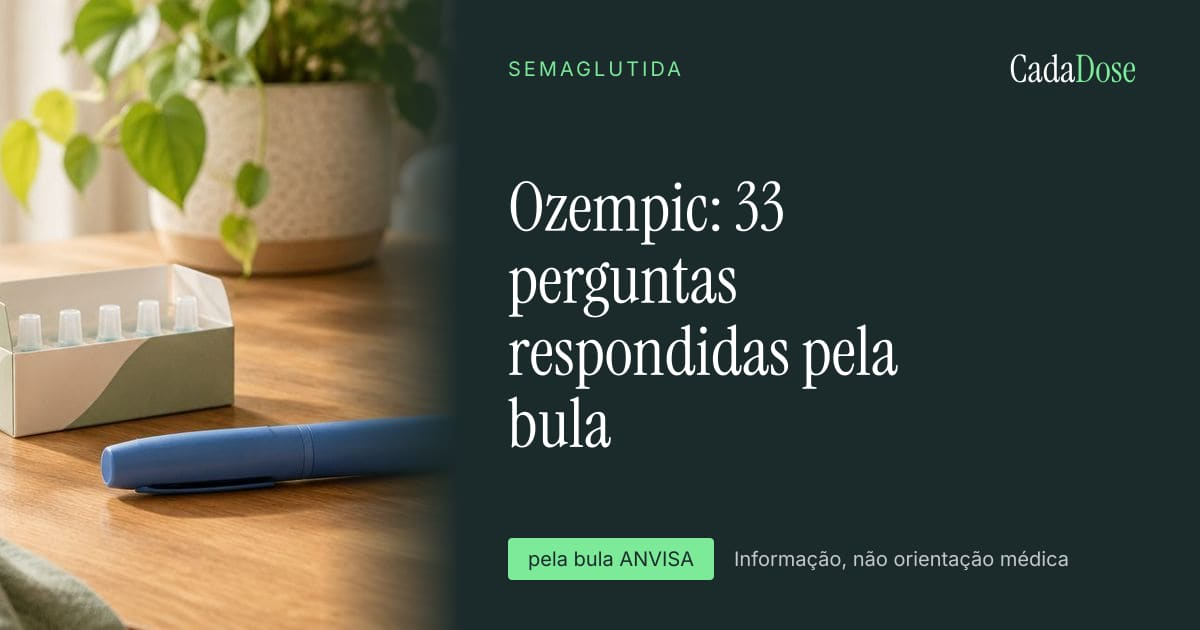
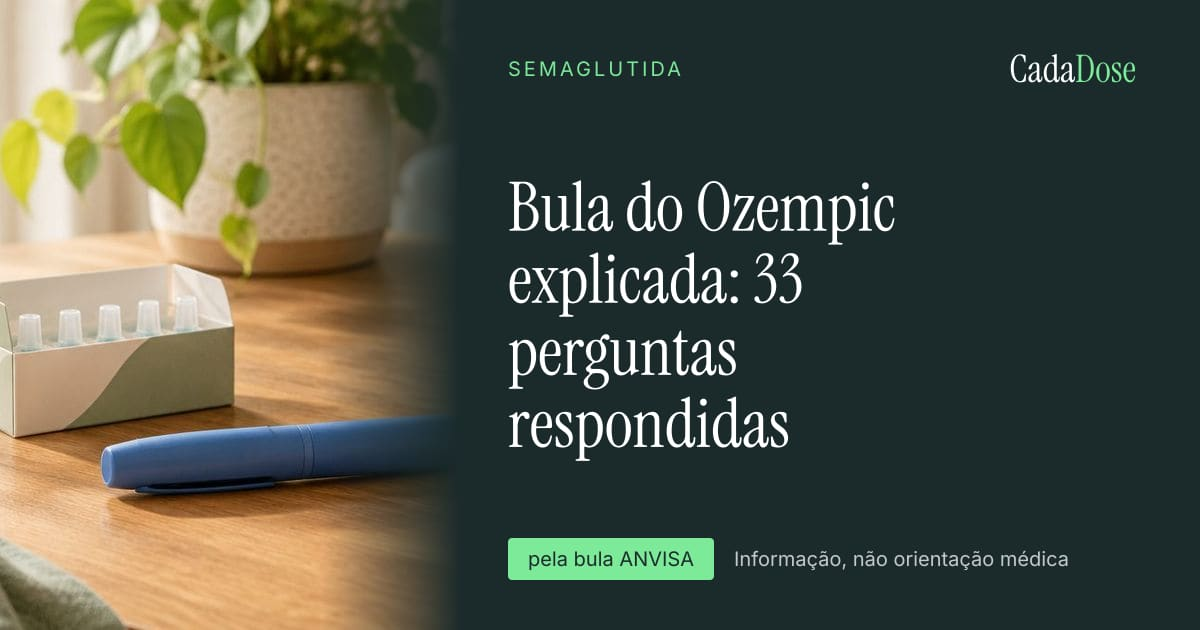
Medication hubs target 'bula do X' queries: title/H1 'Bula do X explicada', MedicalWebPage + MedicalEntity JSON-LD with bula citations

Changed region(s): [[0.4008, 0.2714, 0.7708, 0.7238]]

diff --git a/src/app/medicamentos/[slug]/page.tsx b/src/app/medicamentos/[slug]/page.tsx
@@ -21,13 +21,13 @@ export async function generateMetadata({ params }: { params: Promise<{ slug: str
   if (!med) return {};
   return {
     title: med.sources.length
-      ? `${med.name.split(" (")[0]}: bula, doses, validade e ${getArticlesForMedication(slug).length} perguntas respondidas`
+      ? `Bula do ${med.name.split(" (")[0]} explicada: doses, validade e ${getArticlesForMedication(slug).length} perguntas respondidas`
       : `${med.name.split(" (")[0]}: sem bula aprovada, o que a ANVISA diz`,
     description: med.sources.length
       ? `${med.name}: tabela de doses, validade depois de aberto, dose esquecida e efeitos colaterais, citados da bula aprovada pela ANVISA.`
       : `${med.name}: sem bula aprovada. O que a ANVISA diz (Nota Técnica 200/2025, RDC 973/2025) e por que não equivale ao produto registrado.`,
     alternates: { canonical: `/medicamentos/${slug}` },
-    ...social(`med-${slug}`, med.sources.length ? `${med.name.split(" (")[0]}: bula, doses, validade e perguntas respondidas` : `${med.name.split(" (")[0]}: sem bula aprovada, o que a ANVISA diz`, med.sources.length ? `Tudo sobre ${med.name} pela bula aprovada pela ANVISA.` : `${med.name}: o que a ANVISA diz.`, { path: `/medicamentos/${slug}` }),
+    ...social(`med-${slug}`, med.sources.length ? `Bula do ${med.name.split(" (")[0]} explicada: doses, validade e perguntas respondidas` : `${med.name.split(" (")[0]}: sem bula aprovada, o que a ANVISA diz`, med.sources.length ? `Tudo sobre ${med.name} pela bula aprovada pela ANVISA.` : `${med.name}: o que a ANVISA diz.`, { path: `/medicamentos/${slug}` }),
   };
 }
 
@@ -46,18 +46,19 @@ export default async function MedicationHub({ params }: { params: Promise<{ slug
   if (med.maxTempC) facts.push(["Temperatura máxima", `${med.maxTempC} °C`]);
   if (med.missedDoseWindowHours) facts.push(["Janela da dose esquecida", `${med.missedDoseWindowHours} h`]);
 
+  const pageLd = med.sources.length ? { "@context": "https://schema.org", "@type": "MedicalWebPage", name: `Bula do ${short} explicada`, url: `${siteUrl}/medicamentos/${slug}`, inLanguage: "pt-BR", about: { "@type": "MedicalEntity", name: med.name }, citation: med.sources.map((s) => ({ "@type": "CreativeWork", name: s.label, url: s.url })), hasPart: articles.map((a) => ({ "@type": "WebPage", name: a.title, url: `${siteUrl}/medicamentos/${slug}/${a.intent}` })) } : null;
   const crumbsLd = { "@context": "https://schema.org", "@type": "BreadcrumbList", itemListElement: [{ "@type": "ListItem", position: 1, name: "Medicamentos", item: `${siteUrl}/medicamentos` }, { "@type": "ListItem", position: 2, name: short, item: `${siteUrl}/medicamentos/${slug}` }] };
   return (
     <>
-      <script type="application/ld+json" dangerouslySetInnerHTML={{ __html: JSON.stringify(crumbsLd) }} />
-      <PageHero eyebrow={`${med.activeIngredient} · ${med.frequency === "daily" ? "uso diário" : "aplicação semanal"}`} title={med.sources.length ? `${short}: ${articles.length} perguntas respondidas pela bula` : `${short}: sem bula aprovada, o que a ANVISA diz`} lede={t.content.disclaimerShort} image={medImage(slug)} crumbs={[{ label: "Medicamentos", href: "/medicamentos" }, { label: short }]} />
+      <script type="application/ld+json" dangerouslySetInnerHTML={{ __html: JSON.stringify(pageLd ? [crumbsLd, pageLd] : crumbsLd) }} />
+      <PageHero eyebrow={`${med.activeIngredient} · ${med.frequency === "daily" ? "uso diário" : "aplicação semanal"}`} title={med.sources.length ? `Bula do ${short} explicada: ${articles.length} perguntas respondidas` : `${short}: sem bula aprovada, o que a ANVISA diz`} lede={t.content.disclaimerShort} image={medImage(slug)} crumbs={[{ label: "Medicamentos", href: "/medicamentos" }, { label: short }]} />
 
       <div className="mx-auto max-w-7xl px-6 py-14 md:px-10 md:py-20">
         {facts.length > 0 && (
           <section className="grid gap-4 md:grid-cols-[1fr_2fr]">
             <div className="tile flex flex-col justify-between bg-forest text-white">
               <p className="eyebrow">O que a bula fixa</p>
-              <h2 className="mt-6 text-4xl">Números da bula, sem interpretação</h2>
+              <h2 className="mt-6 text-4xl">{med.sources.length ? `A bula do ${short} em números` : "Números da bula, sem interpretação"}</h2>
               <p className="mt-4 text-xs text-white/70">Fonte: {med.sources.map((s, i) => <span key={s.url}>{i > 0 ? " · " : ""}<a href={s.url} rel="noopener" className="underline">{s.label}</a></span>)}</p>
             </div>
             <div className="grid gap-4 sm:grid-cols-2">

diff --git a/scripts/og-list.ts b/scripts/og-list.ts
@@ -13,7 +13,7 @@ const list = [
   { key: "calendario", title: "Calendário do seu tratamento, pela bula. Grátis, sem cadastro.", eyebrow: "Ferramenta gratuita", photo: "img/t-tabela-de-dose.jpg" },
   { key: "app", title: "A semana da dose, registrada em um toque. Os dados ficam no seu aparelho.", eyebrow: "Meu diário", photo: "img/card-2.jpg" },
   { key: "sobre", title: "Um site que só repete o que a bula diz.", eyebrow: "Sobre", photo: "img/principles.jpg" },
-  ...medications.map((m) => ({ key: `med-${m.slug}`, title: m.sources.length ? `${m.name.split(" (")[0]}: ${allArticles.filter((a) => a.medicationSlug === m.slug).length} perguntas respondidas pela bula` : `${m.name.split(" (")[0]}: sem bula aprovada, o que a ANVISA diz`, eyebrow: m.activeIngredient, photo: jpg(medImage(m.slug).slice(1)) })),
+  ...medications.map((m) => ({ key: `med-${m.slug}`, title: m.sources.length ? `Bula do ${m.name.split(" (")[0]} explicada: ${allArticles.filter((a) => a.medicationSlug === m.slug).length} perguntas respondidas` : `${m.name.split(" (")[0]}: sem bula aprovada, o que a ANVISA diz`, eyebrow: m.activeIngredient, photo: jpg(medImage(m.slug).slice(1)) })),
   ...allArticles.map((a) => ({ key: `a-${a.medicationSlug}-${a.intent}`, title: a.title, eyebrow: `${getMedication(a.medicationSlug)?.name.split(" (")[0]} · ${intentLabels[a.intent]}`, photo: themeImage(a.intent, a.medicationSlug).slice(1) })),
   ...[...new Set(allArticles.map((a) => a.intent))].map((i) => ({ key: `t-${i}`, title: `${intentLabels[i]}: o que diz a bula de cada medicamento`, eyebrow: "Tema", photo: themeImage(i).slice(1) })),
   ...guias.map((g) => ({ key: `g-${g.slug}`, title: g.title, eyebrow: "Guia", photo: guideImage(g.slug).slice(1) })),
